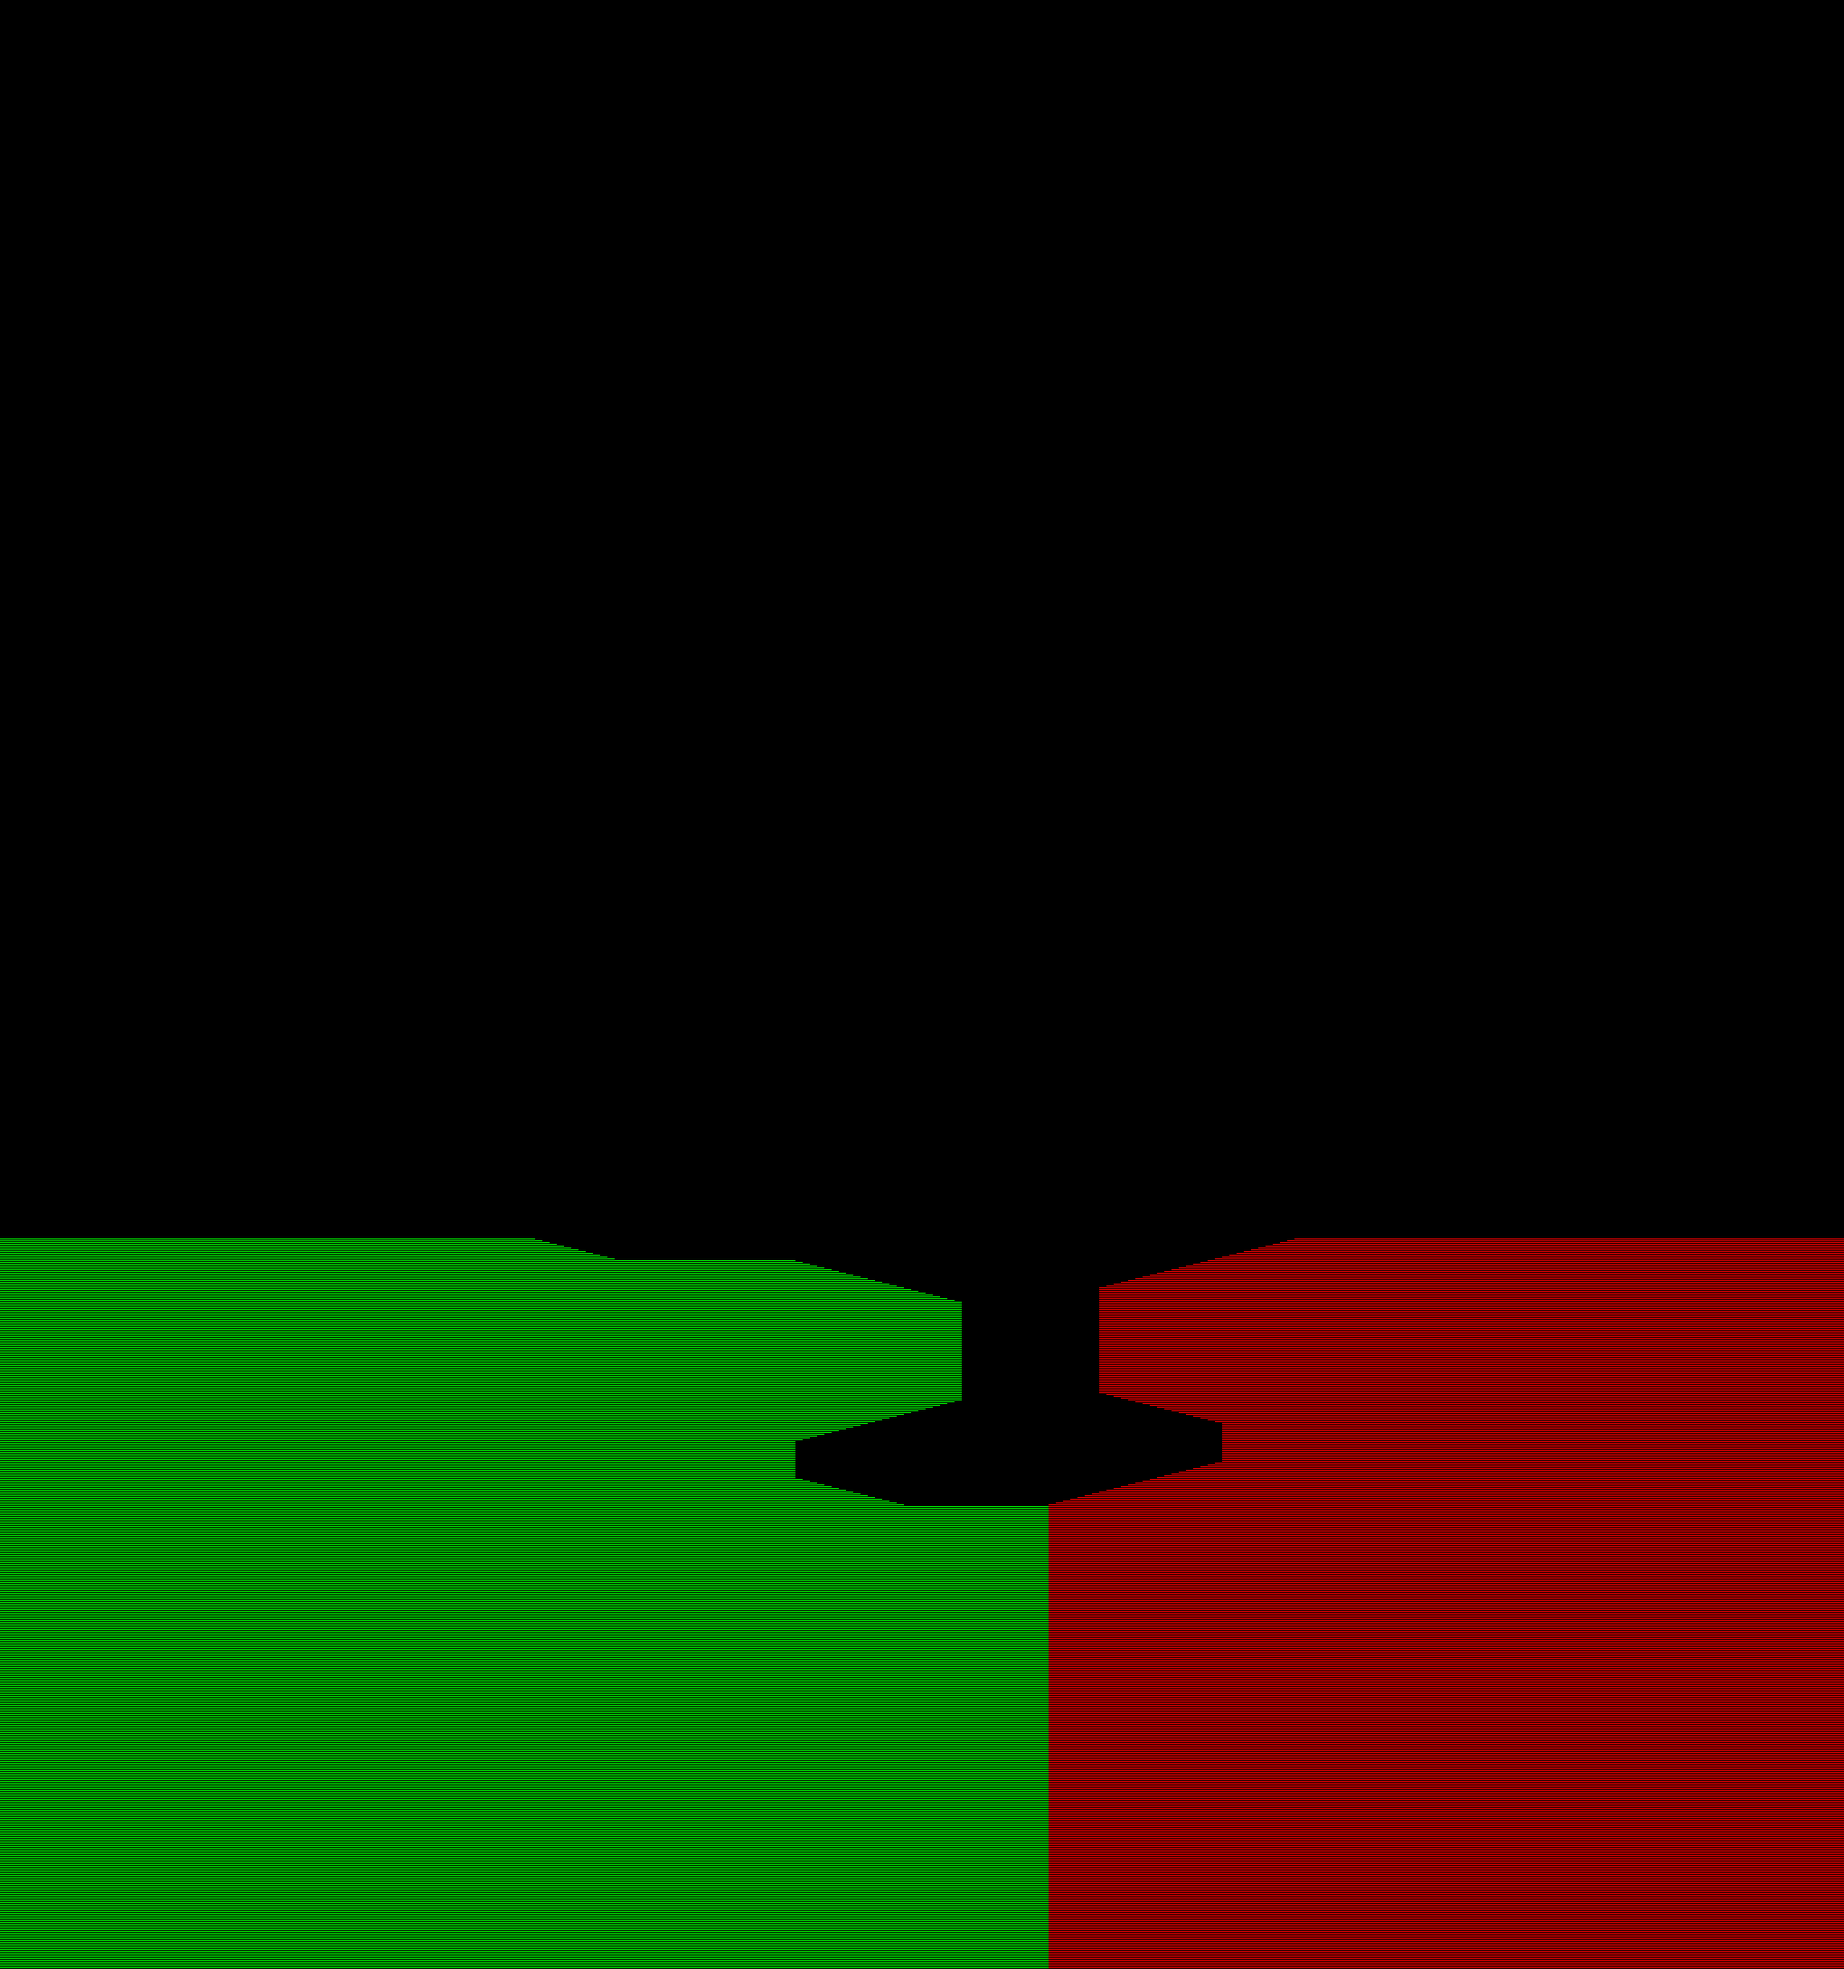
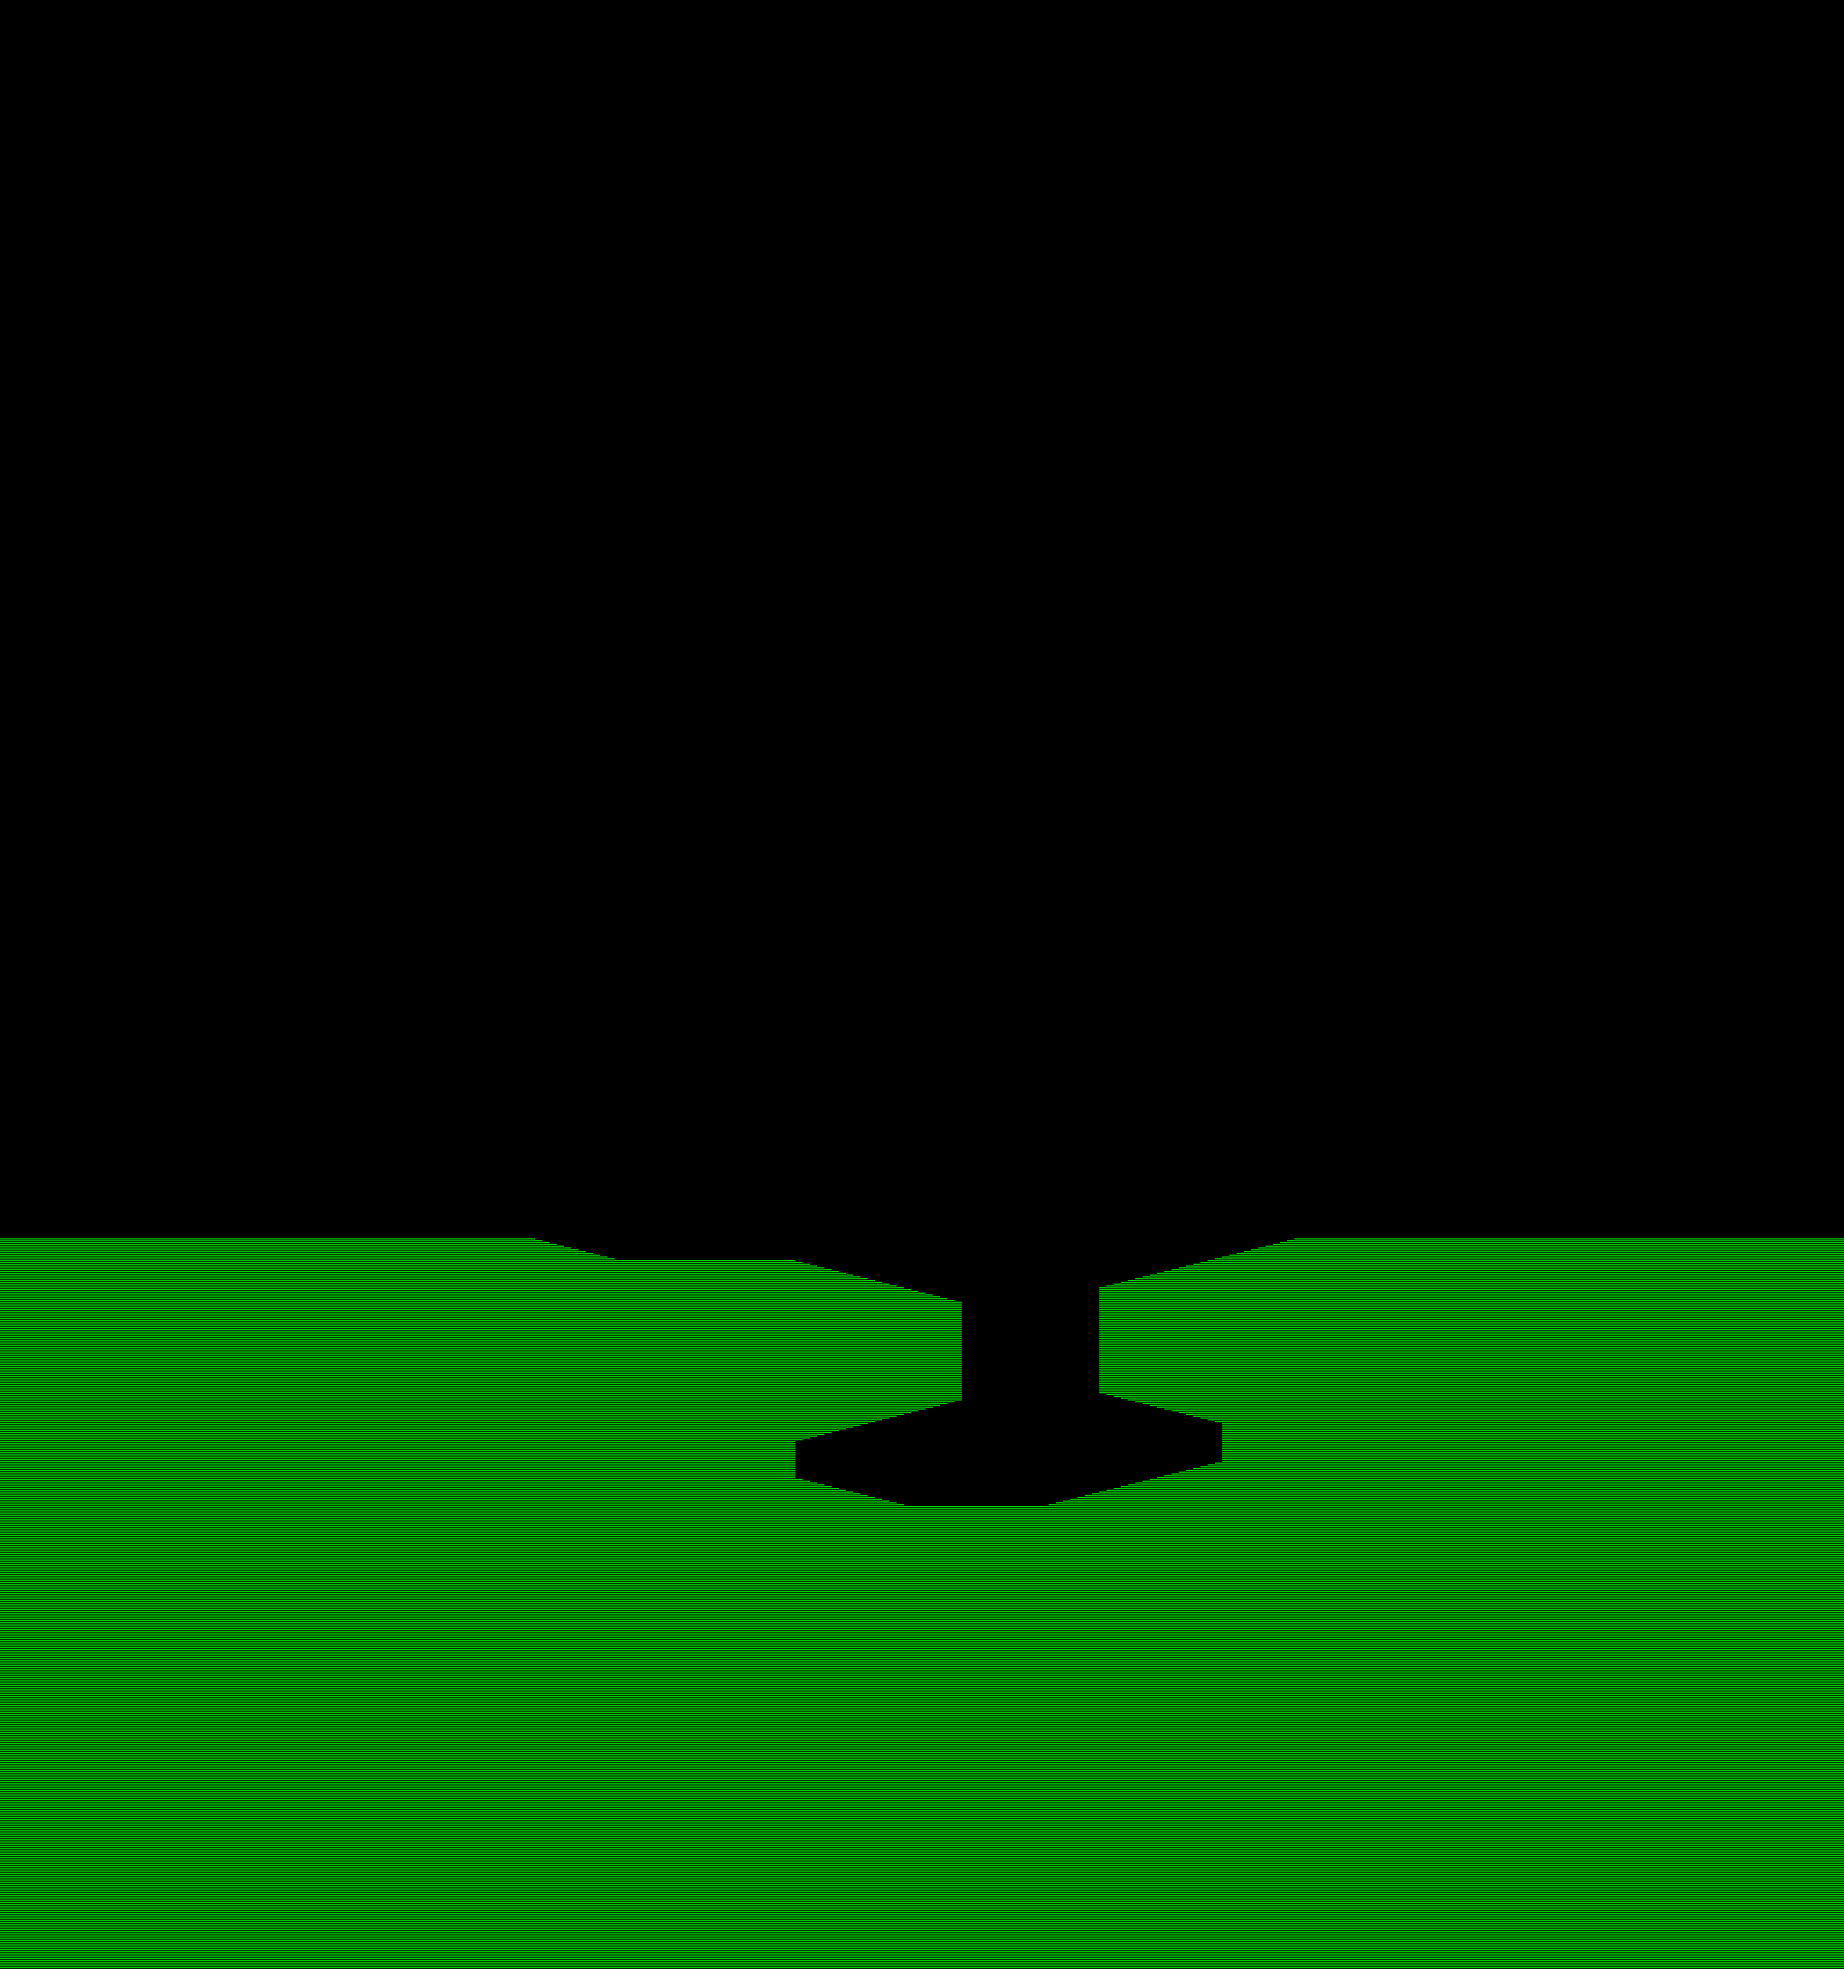
feat: add custom RGBA JSON marshaling for terrain
- Introduced `RGBA` type in `internal/model/game_data.go` to support
  human-readable color names in JSON configuration files.
- Updated `Level` struct to use `RGBA` for `TerrainColor`.
- Refactored `RenderTerrain` to use the configured level color instead
  of hardcoded values.
- Updated terrain visualization assets to reflect changes.

Changed region(s): [[0.5559, 0.6244, 1.0, 1.0]]

diff --git a/internal/model/game_data.go b/internal/model/game_data.go
@@ -298,6 +298,46 @@ type LevelFlags struct {
 	ReverseGravity bool `json:"reverse_gravity,omitempty"`
 }
 
+// RGBA wraps color.RGBA to provide custom JSON marshaling for color names.
+type RGBA struct {
+	color.RGBA
+}
+
+var colorNames = map[string]color.RGBA{
+	"black":   {0, 0, 0, 255},
+	"red":     {255, 0, 0, 255},
+	"green":   {0, 255, 0, 255},
+	"yellow":  {255, 255, 0, 255},
+	"blue":    {0, 0, 255, 255},
+	"magenta": {255, 0, 255, 255},
+	"cyan":    {0, 255, 255, 255},
+	"white":   {255, 255, 255, 255},
+}
+
+// MarshalJSON encodes the color as a JSON string name if known.
+func (c RGBA) MarshalJSON() ([]byte, error) {
+	for name, rgba := range colorNames {
+		if rgba == c.RGBA {
+			return json.Marshal(name)
+		}
+	}
+	// Fallback to standard RGBA representation if name not found
+	return json.Marshal(c.RGBA)
+}
+
+// UnmarshalJSON decodes a JSON string color name into an RGBA struct.
+func (c *RGBA) UnmarshalJSON(data []byte) error {
+	var s string
+	if err := json.Unmarshal(data, &s); err == nil {
+		if rgba, ok := colorNames[s]; ok {
+			c.RGBA = rgba
+			return nil
+		}
+	}
+	// Fallback to standard RGBA unmarshaling
+	return json.Unmarshal(data, &c.RGBA)
+}
+
 // Level holds all static data describing a single level of Thrust.
 // At runtime the game copies pointers to these arrays into zero-page
 // self-modifying-code locations (level_obj_type_addr, level_obj_pos_X_addr, etc.).
@@ -306,7 +346,7 @@ type Level struct {
 	Number uint8 `json:"number"`
 
 	// TerrainColor is the colour used for terrain pixels in this level.
-	TerrainColor string `json:"terrain_color"`
+	TerrainColor RGBA `json:"terrain_color"`
 
 	// Gravity is the per-level gravitational acceleration.
 	Gravity GravityVector `json:"gravity"`
@@ -350,9 +390,6 @@ func (level *Level) RenderTerrain() *image.RGBA {
 		}
 	}
 
-	leftColor := color.RGBA{R: 0, G: 255, B: 0, A: 255}  // Green
-	rightColor := color.RGBA{R: 255, G: 0, B: 0, A: 255} // Red
-
 	// Decode walls at logical resolution (one entry per RLE step)
 	left := level.Terrain.LeftWall1.Decode(logicalHeight, 0)
 	right := level.Terrain.RightWall1.Decode(logicalHeight, 255)
@@ -374,12 +411,12 @@ func (level *Level) RenderTerrain() *image.RGBA {
 
 		// Draw left terrain
 		for x := 0; x < int(lX)*PixelsPerCharacter; x++ {
-			img.Set(x, y, leftColor) // level.TerrainColor)
+			img.Set(x, y, level.TerrainColor.RGBA)
 		}
 
 		// Draw right terrain
 		for x := int(rX) * PixelsPerCharacter; x < width; x++ {
-			img.Set(x, y, rightColor) // level.TerrainColor)
+			img.Set(x, y, level.TerrainColor.RGBA)
 		}
 	}
 
